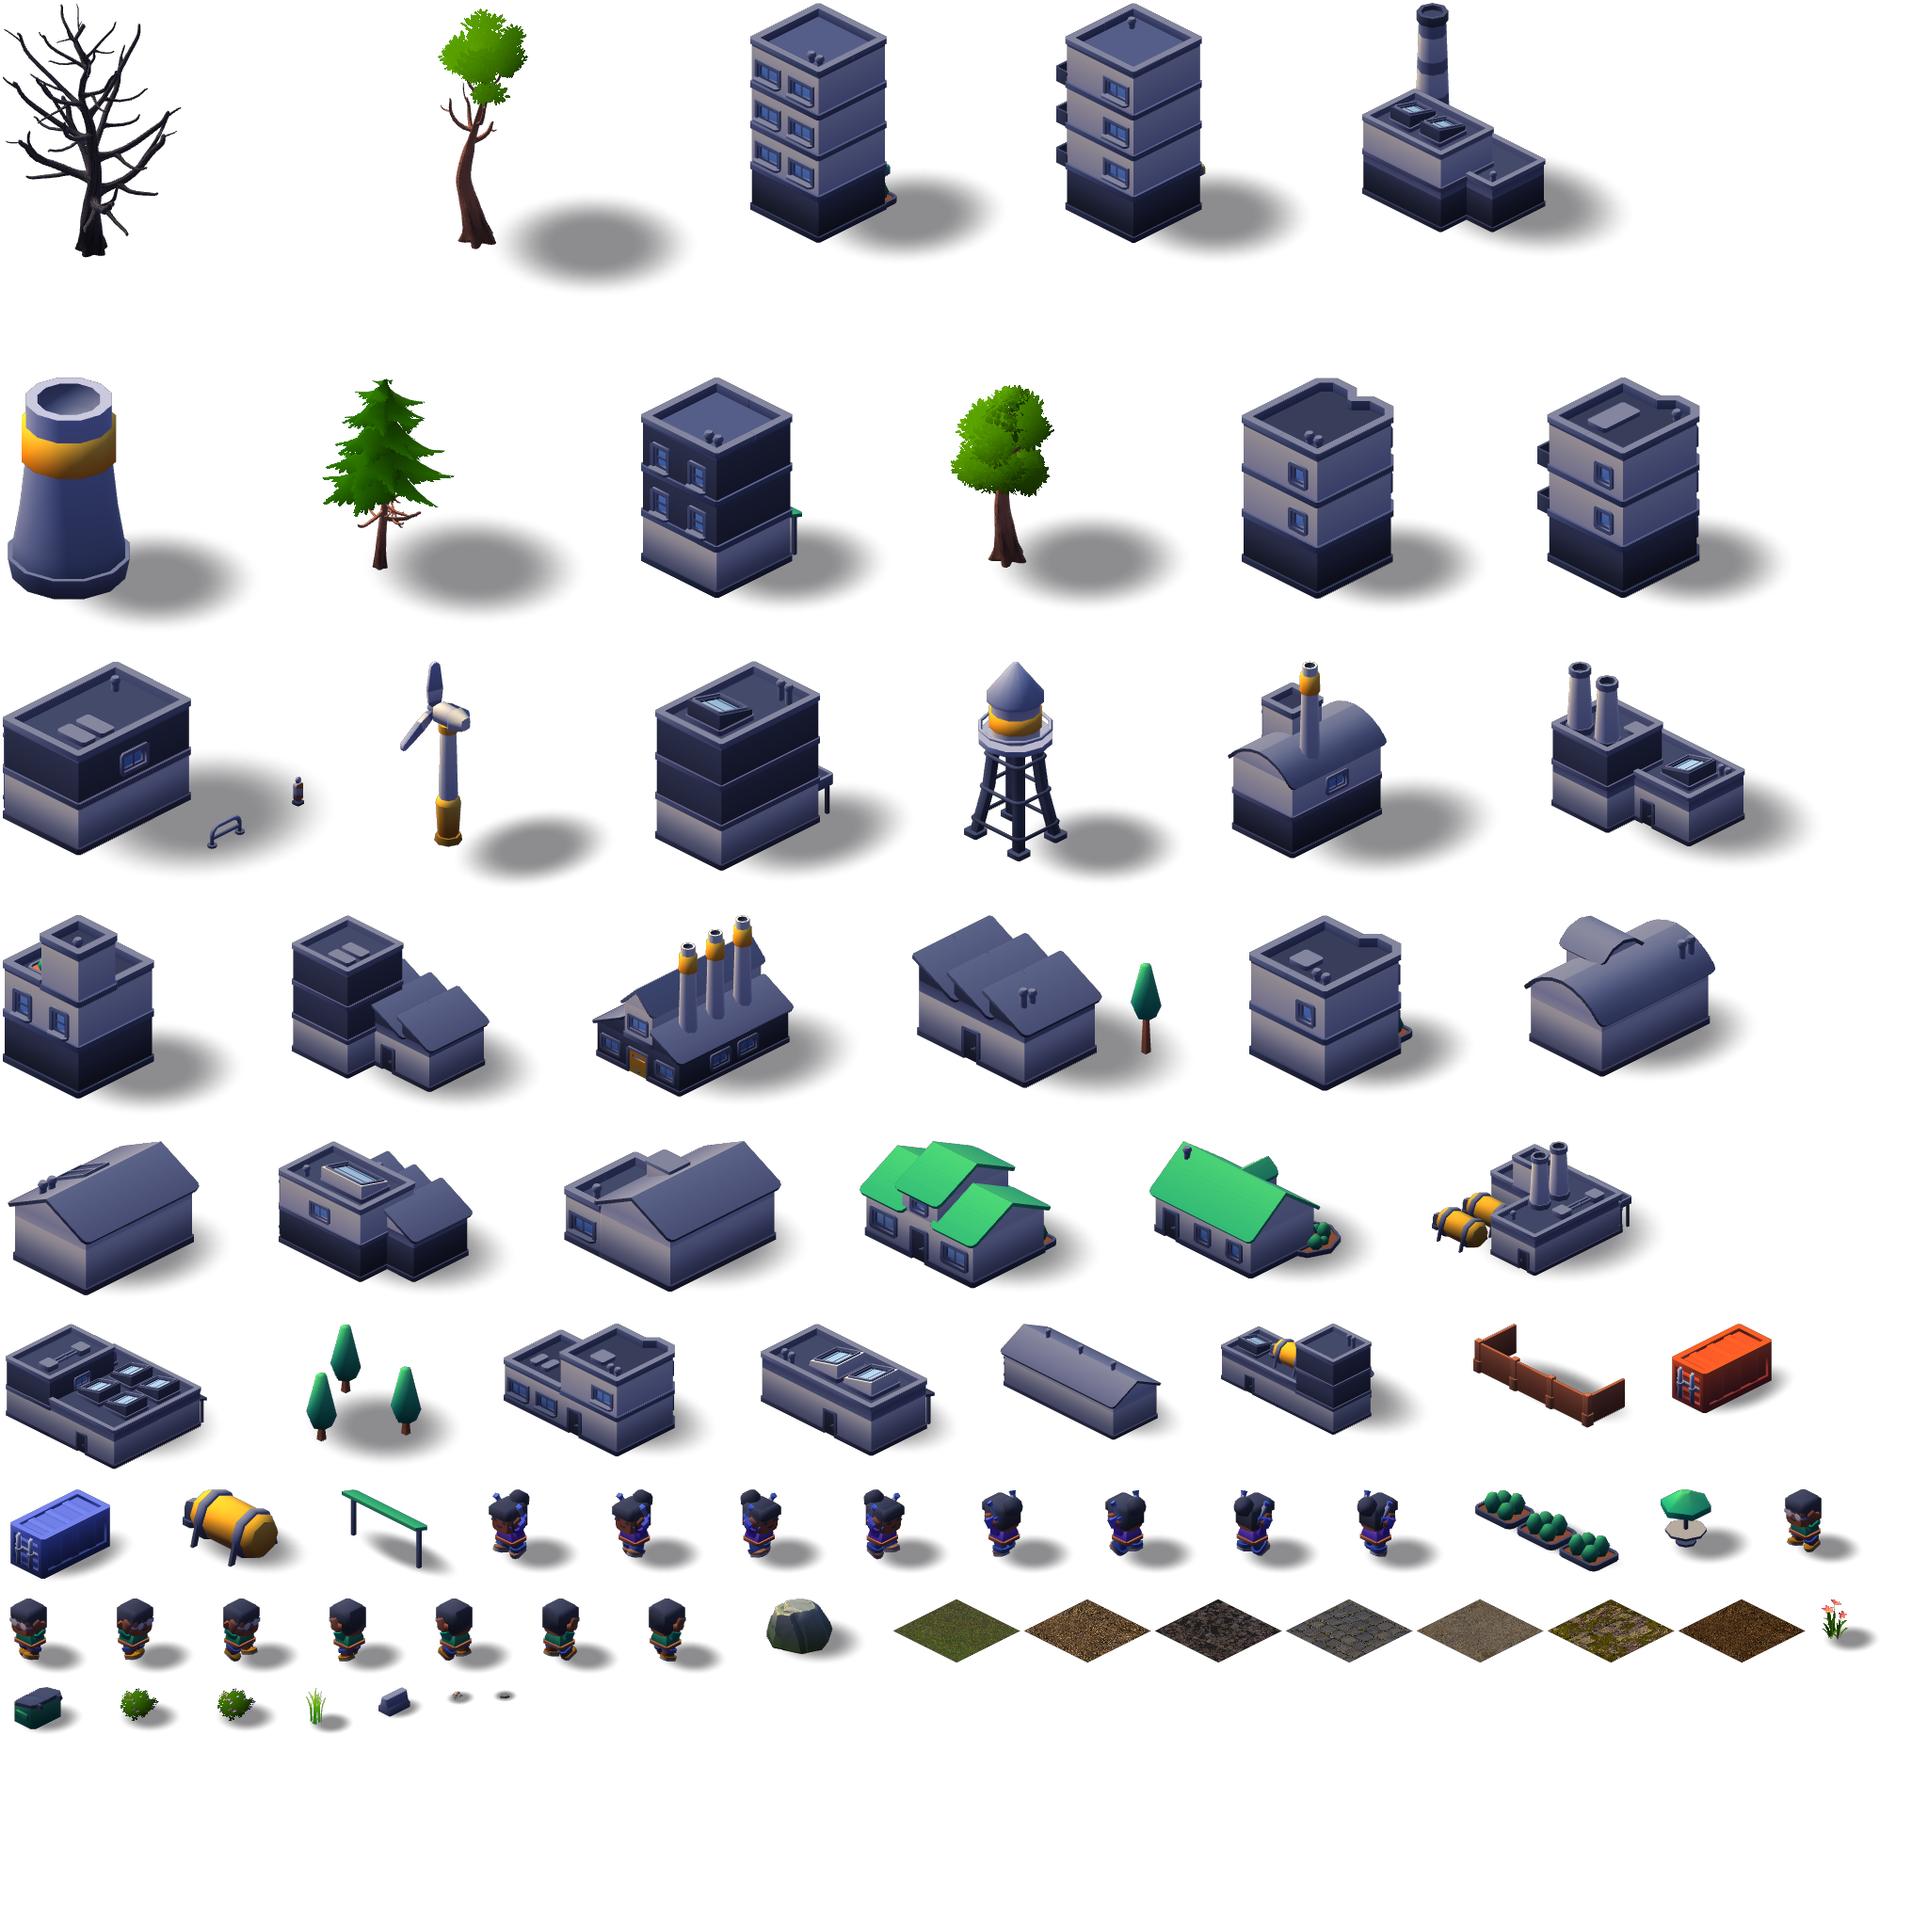
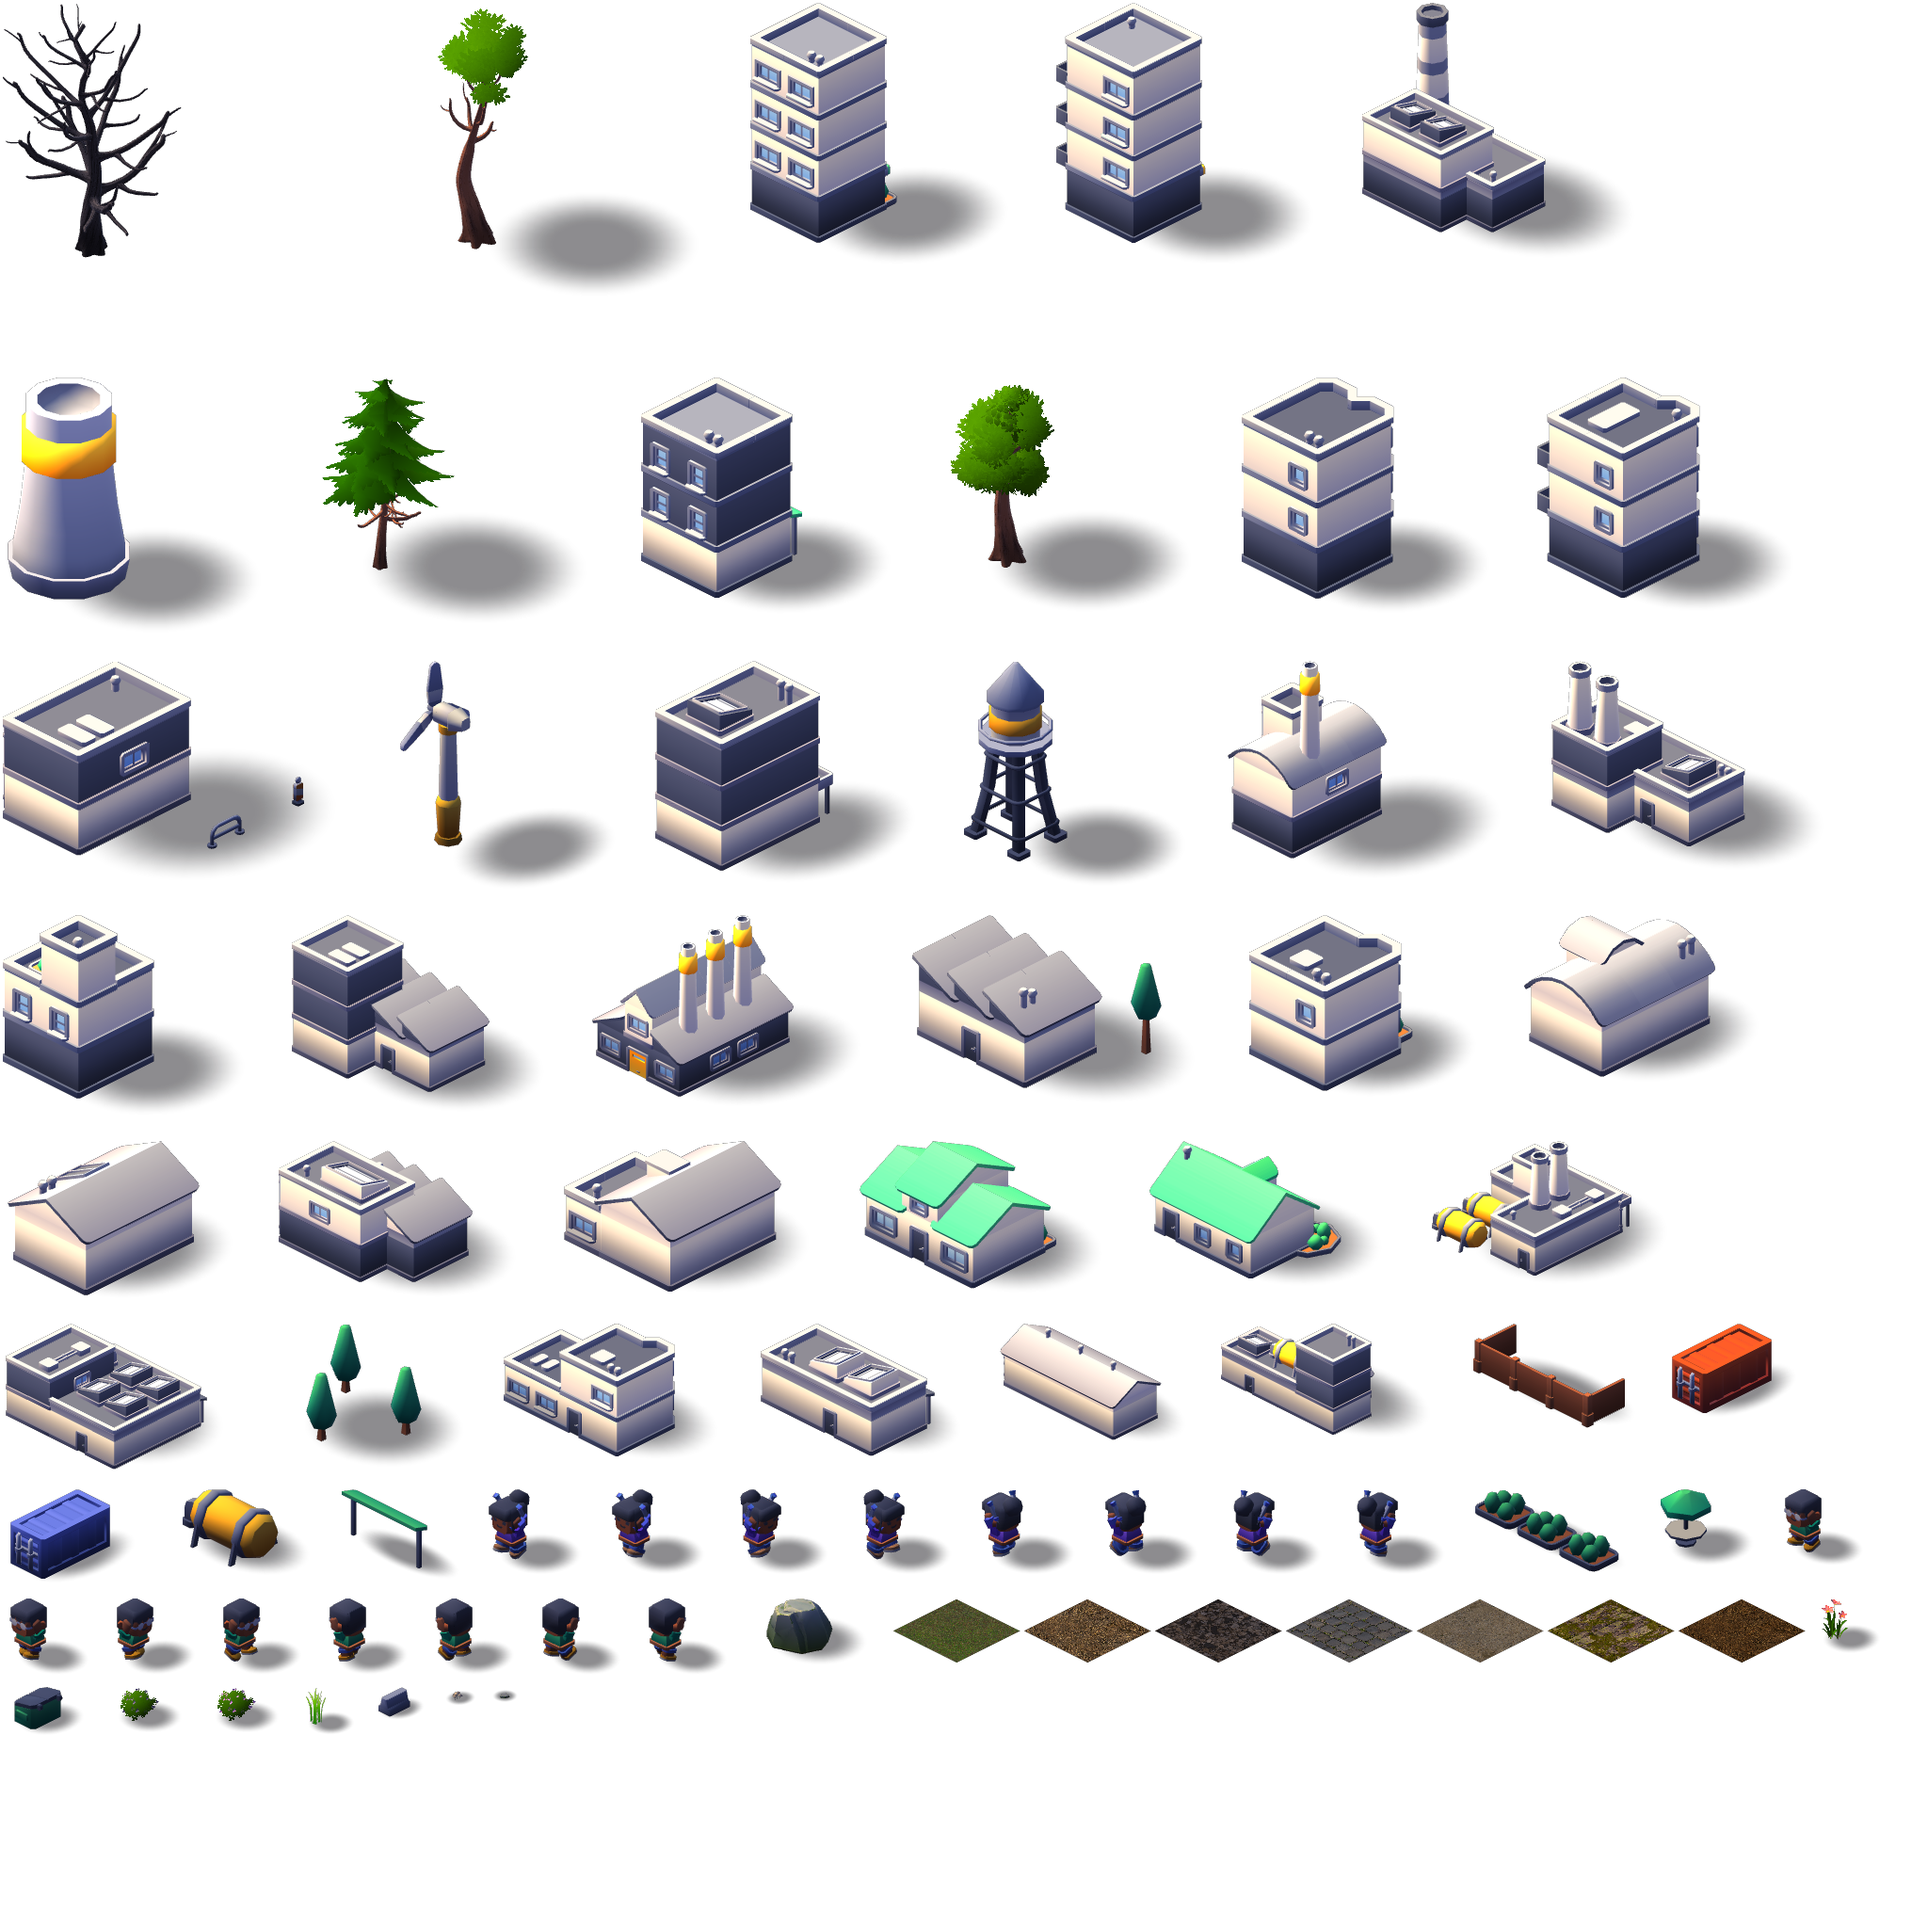
fix: son sang cac dang nha me hien dai
Chu du an bao "nha xam xanh qua". 28 manh nha (kc, ki, ks) them
"mau": [1.9, 1.85, 1.7]. Dung `mau` chu khong `mau_vl`: ca goi City Kit chi co
dung mot material ten `colormap`, `mau_vl` son het ca nha lan mai lan cua so.
Ba so lech nhau de keo mau khoi phia xanh lam. Atlas 2x van 74,1%, mot trang.

Claude-Session: https://claude.ai/code/session_01GjabNX9p4E63beYjXZAphv

diff --git a/docs/NHAT_KY/PHASE_8B.md b/docs/NHAT_KY/PHASE_8B.md
@@ -37,3 +37,8 @@ Màn thật ở `?me=hien_dai`: **501 sprite · 1 lệnh vẽ**.
 - **"Cối xay không quay nhỉ"** → đúng, và **chưa bao giờ quay**, kể cả mẻ trung cổ: sprite
   công trình chỉ một khung, chỉ người đi đường có hai. Chủ dự án chốt **làm ở phiên sau** —
   ba bước ghi ở `docs/TIEN_DO.md` mục 5.
+- **"Nhà xám xanh quá, đổi màu sáng hơn"** → 28 mảnh nhà (kc, ki, ks) thêm
+  `"mau": [1.9, 1.85, 1.7]`. Phải dùng `mau` (nhân, giữ vân hoạ tiết) chứ **không phải
+  `mau_vl`**: cả gói City Kit chỉ có **đúng một** material tên `colormap`, nên `mau_vl`
+  sơn hết cả nhà lẫn mái lẫn cửa sổ, không tách được. Ba số lệch nhau để kéo màu khỏi
+  phía xanh lam. Atlas 2× vẫn **74,1 %**, một trang — nhân màu không đổi kích thước.
